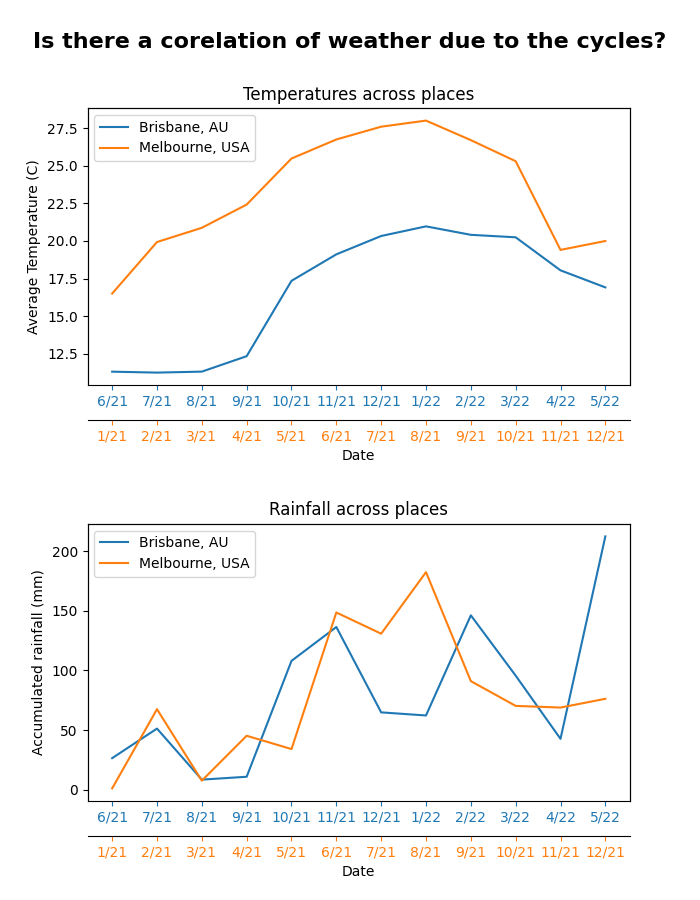
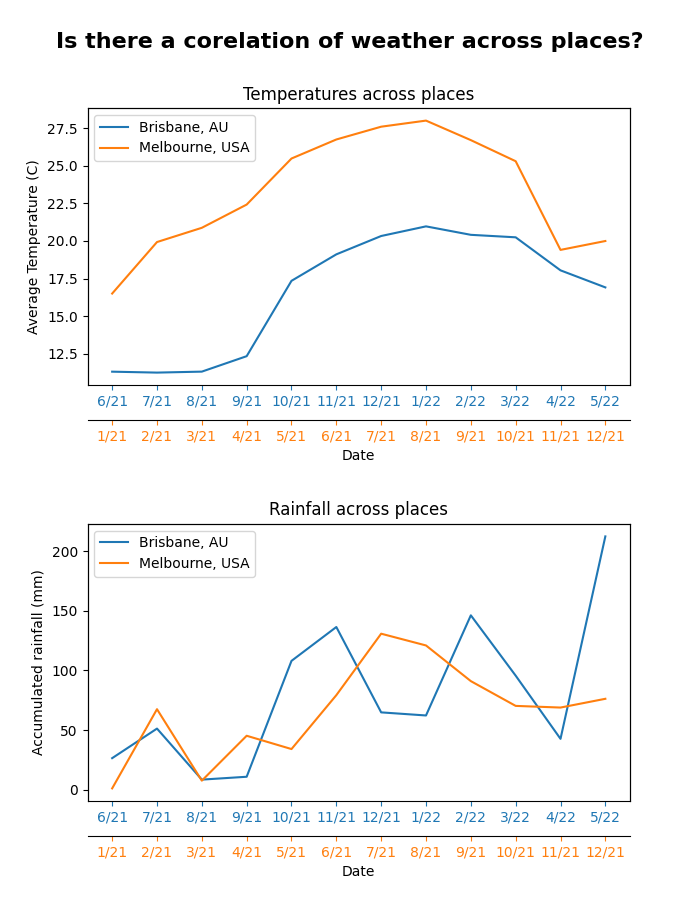
more changes

diff --git a/src/get_data.py b/src/get_data.py
@@ -3,101 +3,93 @@ import csv
 from data_types import BomData, BomObservation, BomObservation, USWeather, USWeatherObservation
 
 
-class GetData:
+
+def get_us_weather() -> USWeather:
     """
-    The class that gets the data from the csv file(s)
+    The function that gets the data from the csv file
     """
 
-    def __init__(self):
-        # Doesn't actually do much
-        pass
+    us_2021_weather = USWeather()
+    # gets all the observations from the csv file
+    us_2021_weather_data_kmlb = codecs.open("./data/us-2021/KMLB.2021-12-31.csv", 'r', encoding='utf-8', errors='ignore')
+    cities = [us_2021_weather_data_kmlb]
 
-    def get_us_2021_weather(self) -> USWeather:
-        """
-        The actual function that gets the data from the csv file
-        """
+    # go through each city and get their data
+    for city_data in cities:
+        observed_data = []
+        for index, row in enumerate(csv.reader(city_data)):
+            # skip header
+            if index < 12:
+                continue
+            observation = USWeatherObservation()
+            observation.station_id = row[0]
+            observation.date_time = row[1]
+            observation.air_temp_set_1 = float(row[2] or 0)
+            observation.precip_accum_one_hour_set_1 = row[3]
+            row.append(0)
+            observation.precip_accum_24_hour_set_1 = row[4] or (float(row[3] or 0) / 535) or 0
 
-        us_2021_weather = USWeather()
-        # gets all the observations from the csv file
-        us_2021_weather_data_kmlb = codecs.open("./data/us-2021/KMLB.2021-12-31.csv", 'r', encoding='utf-8', errors='ignore')
-        cities = [us_2021_weather_data_kmlb]
+            # append the observation to the list
+            observed_data.append(observation)
 
-        # go through each city and get their data
-        for city_data in cities:
-            observed_data = []
-            for index, row in enumerate(csv.reader(city_data)):
-                # skip header
-                if index < 12:
-                    continue
-                observation = USWeatherObservation()
-                observation.station_id = row[0]
-                observation.date_time = row[1]
-                observation.air_temp_set_1 = float(row[2] or 0)
-                observation.precip_accum_one_hour_set_1 = row[3]
-                row.append(0)
-                observation.precip_accum_24_hour_set_1 = row[4] or (float(row[3] or 0) / 535) or 0
+        # find which source it is, and then add the observation to the list
+        if city_data.name == us_2021_weather_data_kmlb.name:
+            us_2021_weather.kmlb = observed_data
 
-                # append the observation to the list
-                observed_data.append(observation)
+    # finally return the data
+    return us_2021_weather
 
-            # find which source it is, and then add the observation to the list
-            if city_data.name == us_2021_weather_data_kmlb.name:
-                us_2021_weather.kmlb = observed_data
+def get_bom_weather() -> BomData:
+    """
+    The function that gets the data from the csv file
+    """
 
-        # finally return the data
-        return us_2021_weather
+    bom_weather = BomData()
+    # gets all the observations from the csv file
+    cities = ["brisbane"]
 
-    def get_bom_weather(self) -> BomData:
-        """
-        The actual function that gets the data from the csv file
-        """
+    # sets the years to be observed
+    min_year, max_year = 2021, 2022
 
-        bom_weather = BomData()
-        # gets all the observations from the csv file
-        cities = ["brisbane"]
+    # go through each city and get their data
+    for city in cities:
+        observed_data = []
+        # go through the years to collect the data
+        for year in range(min_year, max_year+1):
+            for month in range(1, 12+1):
 
-        # sets the years to be observed
-        min_year, max_year = 2021, 2022
+                # skip the first 6 months
+                if year == min_year and month < 6:
+                    continue 
+                # skip the last 6 months
+                elif year == max_year and month > 5:
+                    break
 
-        # go through each city and get their data
-        for city in cities:
-            observed_data = []
-            # go through the years to collect the data
-            for year in range(min_year, max_year+1):
-                for month in range(1, 12+1):
+                data = codecs.open(f"./data/bom/{city}/{city}-{year}{'%02d' % month}.csv", 'r', encoding='utf-8', errors='ignore')
 
-                    # skip the first 6 months
-                    if year == min_year and month < 6:
-                        continue 
-                    # skip the last 6 months
-                    elif year == max_year and month > 5:
-                        break
+                for index, row in enumerate(csv.reader(data)):
+                    # skip header
+                    if index < 13 or row[0] == "Totals:":
+                        continue
+                    observation = BomObservation()
+                    observation.station_name = row[0] or ""
+                    observation.date = row[1] or ""
+                    observation.evapo_transpiration = row[2] or 0
+                    observation.rain = row[3] or 0
+                    observation.pan_evaporation = row[4] or 0
+                    observation.maximum_temperature = row[5] or 0
+                    observation.minimum_temperature = row[6] or 0
+                    observation.maximum_relative_humidity = row[7] or 0
+                    observation.minimum_relative_humidity = row[8] or 0
+                    observation.average_10m_wind_speed = row[9] or 0
+                    observation.solar_radiation = row[10] or 0
 
-                    data = codecs.open(f"./data/bom/{city}/{city}-{year}{'%02d' % month}.csv", 'r', encoding='utf-8', errors='ignore')
+                    # append the observation to the list
+                    observed_data.append(observation)
 
-                    for index, row in enumerate(csv.reader(data)):
-                        # skip header
-                        if index < 13 or row[0] == "Totals:":
-                            continue
-                        observation = BomObservation()
-                        observation.station_name = row[0] or ""
-                        observation.date = row[1] or ""
-                        observation.evapo_transpiration = row[2] or 0
-                        observation.rain = row[3] or 0
-                        observation.pan_evaporation = row[4] or 0
-                        observation.maximum_temperature = row[5] or 0
-                        observation.minimum_temperature = row[6] or 0
-                        observation.maximum_relative_humidity = row[7] or 0
-                        observation.minimum_relative_humidity = row[8] or 0
-                        observation.average_10m_wind_speed = row[9] or 0
-                        observation.solar_radiation = row[10] or 0
-
-                        # append the observation to the list
-                        observed_data.append(observation)
-
-            # find which source it is, and then add the observation to the list
-            if city == "brisbane":
-                bom_weather.brisbane = observed_data
-        
-        # finally return the data
-        return bom_weather
+        # find which source it is, and then add the observation to the list
+        if city == "brisbane":
+            bom_weather.brisbane = observed_data
+    
+    # finally return the data
+    return bom_weather

diff --git a/src/__main__.py b/src/__main__.py
@@ -1,28 +1,28 @@
 import matplotlib.pyplot as plt
 from clean_data import simplify_bom_data, simplify_us_data
-from get_data import GetData
+from get_data import get_bom_weather, get_us_weather
 
 
 #### Retrieving & Manipulating the data ####
 # Getting data
 print("getting data...")
-raw_bom_data = GetData().get_bom_weather()
+raw_bom_data = get_bom_weather()
 print("gotten BOM data!")
-raw_us_data = GetData().get_us_2021_weather()
+raw_us_data = get_us_weather()
 print("gotten US data!")
 
 # Cleaning data (making it into monthly and removing the outliers)
-print("simplifing DOM data...")
+print("simplifying DOM data...")
 better_data_bris = simplify_bom_data(raw_bom_data.brisbane)
 print("simplified BOM data!")
-print("simplifing US data...")
+print("simplifying US data...")
 better_data_kmlb = simplify_us_data(raw_us_data.kmlb)
 print("simplified US data!")
 
 
 #### Set up Matplotlib ####
 plt.figure(figsize = (7, 9))
-plt.suptitle("Is there a corelation of weather due to the cycles?", y= 0.965, fontweight="bold", fontsize=16)
+plt.suptitle("Is there a corelation of weather across places?", y=0.965, fontweight="bold", fontsize=16)
 
 #### Temperature plot ####
 plt.subplot(2, 1, 1)
@@ -81,4 +81,4 @@ plt.legend(handles=[plot1, plot2], loc="upper left")
 print("showing plot...")
 plt.savefig("current_graph.png")
 plt.show()
-print("shown plot!")
+print("shown and saved plot!")

diff --git a/src/clean_data.py b/src/clean_data.py
@@ -17,10 +17,10 @@ def simplify_us_data(data: list[USWeatherObservation]) -> list[NewBetterObservat
 
     for entry in data:
         # remove outliers (temp and rain)
-        if (float(space_is_null(entry.air_temp_set_1) or 0) > 60 or float(space_is_null(entry.air_temp_set_1) or 0) < -5):
+        if (float(space_is_null(entry.air_temp_set_1) or 0) > 50 or float(space_is_null(entry.air_temp_set_1) or 0) < -5):
             continue
 
-        if (float(space_is_null(entry.precip_accum_24_hour_set_1) or 0) > 100 or float(space_is_null(entry.precip_accum_24_hour_set_1) or 0) < 0):
+        if (float(space_is_null(entry.precip_accum_24_hour_set_1) or 0) > 50 or float(space_is_null(entry.precip_accum_24_hour_set_1) or 0) < 0):
             continue
         
         # Get the date out of a string (from )
@@ -65,7 +65,7 @@ def simplify_bom_data(data: list[BomObservation]) -> list[NewBetterObservation]:
     for entry in data:
 
         # remove outliers (temp and rain)
-        if (float(space_is_null(entry.maximum_temperature) or 0) > 60 or float(space_is_null(entry.minimum_temperature) or 0) < -10):
+        if (float(space_is_null(entry.maximum_temperature) or 0) > 50 or float(space_is_null(entry.minimum_temperature) or 0) < -5):
             continue
 
         if (float(space_is_null(entry.rain) or 0) > 50 or float(space_is_null(entry.rain) or 0) < 0):
